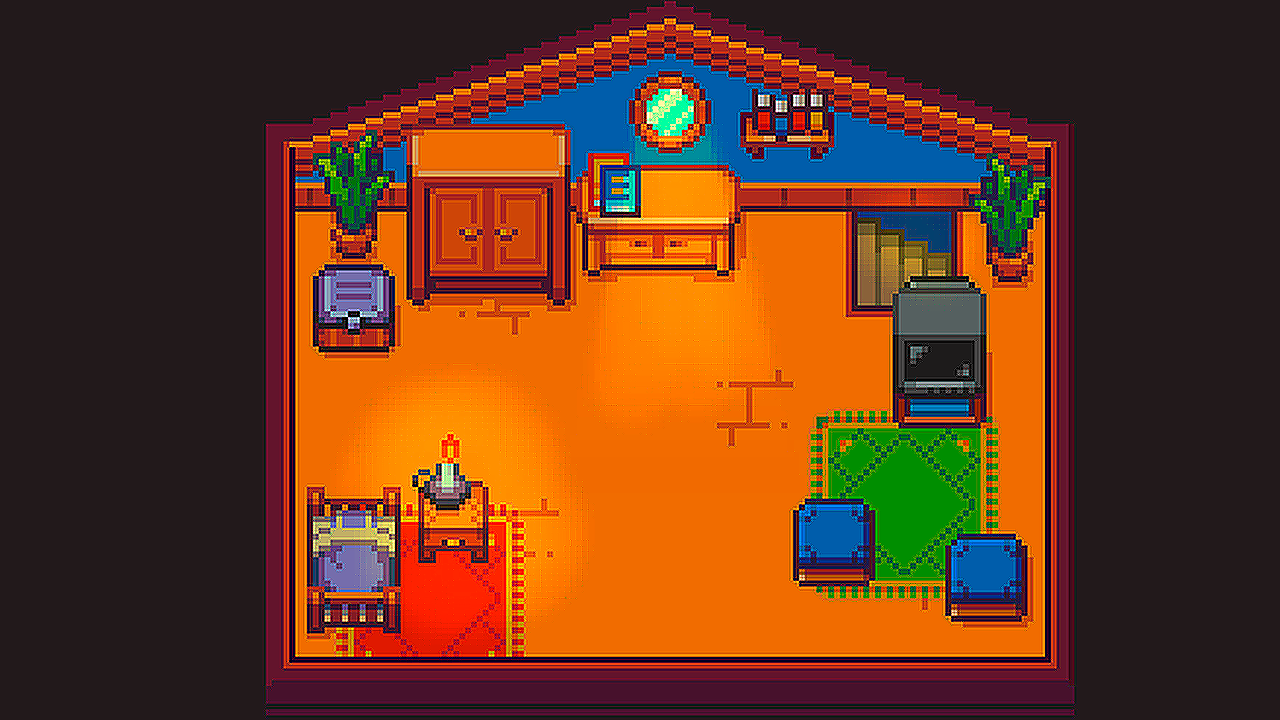
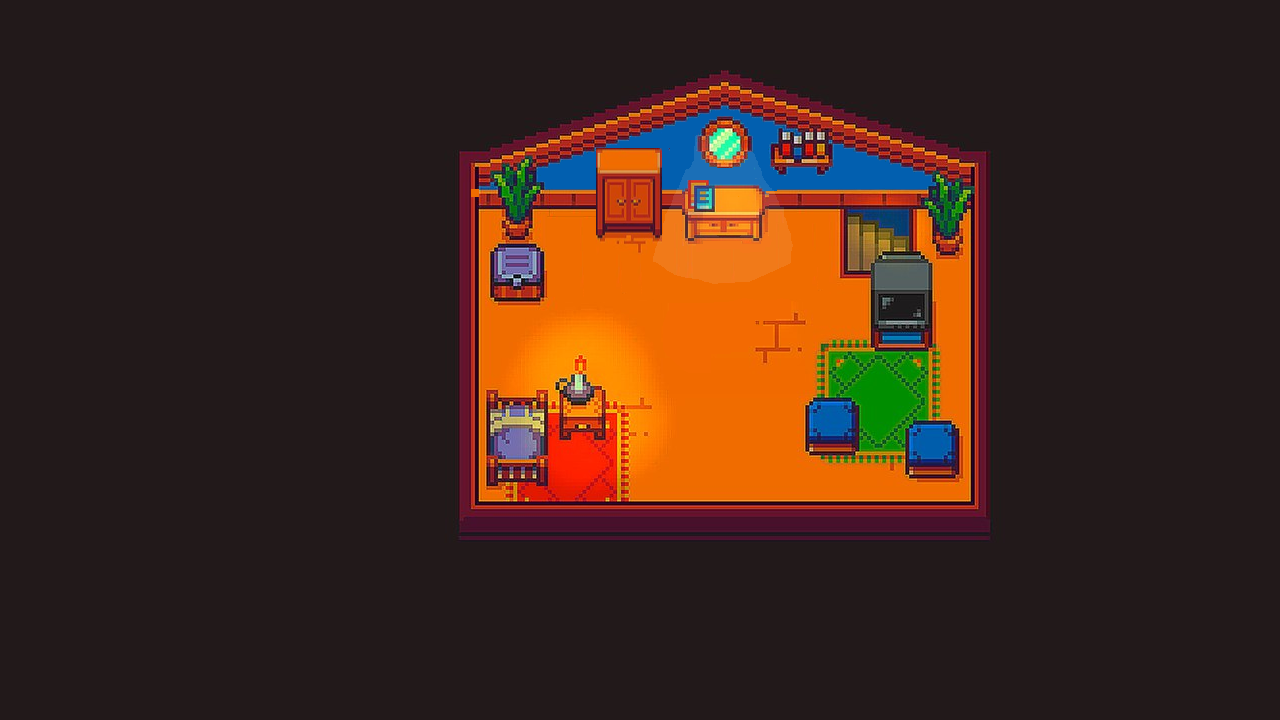
Colisiones Mapa escena 2 Corregido, Aviso Cama, Zoom Display

diff --git a/ProyectoJuegoUnison/Player.h b/ProyectoJuegoUnison/Player.h
@@ -28,6 +28,7 @@ public:
 	void action(ALLEGRO_KEYBOARD_STATE keystate, ALLEGRO_EVENT_QUEUE* queue);
 	void setEscena(int escena);
 	int getEscena();
+	
 
 private:
 	ALLEGRO_BITMAP* sprite;
@@ -35,19 +36,24 @@ private:
 	enum { DOWNW, RIGHTW, UPW, LEFTW };
 	float speedPlayer, direccion, SpritePosX, SpritePosY, corriendo;
 	bool active = false;
-	
+
 	int PlayRefresh, AudRepeat;
-	int x;
-	int y;
+	
 	int escena;
 
 	bool MapaV2;
 	bool MapaCasa;
-
-
+	bool AvisoCama;
+	int x;
+	int y;
 	bool f_pressed = false;
 	double last_f_press = 0.0;
 	const double f_cooldown_time = 2.0; // cooldown de 1 segundo
+
+	//VARIABLES PARA EL ZOOM
+	float cameraPosition[2] = { 0, 0 };
+	float scale = 1.0f;
+	float degrees = 0.0f;
 
 	//DIMESION DE LA MATRIZ MASCARA
 	const int dimxmask = 150;
@@ -229,51 +235,51 @@ private:
 			"x                                                                                                                            x", //16
 			"x                                                                                                                            x", //17
 			"xxxxxxxxxxxxxxxxxxxxxxxxxxxxxxxxxxxxxxxxxxxxxxxxxxxxxxxxxxxxxxxxxxxxxxxxxxxxxxxxxxxxxxxxxxxxxxxxxxxxxxxxxxxxxxxxxxxxxxxxxxxxxx", //18
-			"x                         xx           x                              xx            xxxxxxxxxx        xx                     x", //19
-			"x                         xx           x                              xx            xxxxxxxxxx        xx                     x", //20
-			"x                         xx   xxxxx   x                              xx            xxxxxxxxxx        xx                     x", //21
-			"x                         xx   xxxxx   x                              x             iiiiiiiiix        xx                     x", //22
-			"x                         xx    xxx    x                              x             iiiiiiiiix        xx                     x", //23
-			"x                         xx           xxxxxxxxxxxxxxxxxxxxxxxxxxxxxxxx             iiiiiiiiix   xxxxxxx                     x", //24
-			"x                         xx  xxxxxx   xxxxxxxxxxxxxxxxxxx            x             iiiiiiiiix   xxxxxxx                     x", //25
-			"x                         xx x     xx  xxxxxxxxxxxxxxxxx                            iiiiiixxxx    xxx xx                     x", //26
-			"x                         xx x     xx  xx            xxx                            iiiiixxxxxx       xx                     x", //27
-			"x                         xx x     xx                                               iiiixxxxxxxx      xx                     x", //28
-			"x                         xx x     xx                                                  xxxxxxxxxx     xx                     x", //29
-			"x                         xx x     xx                                                  x        x     xx                     x", //30
-			"x                         xx xxxxxxxx                                                  x        x     xx                     x", //31
-			"x                         xx  xxxxxx                                                   x        x     xx                     x", //32
-			"x                         xx                                                           x        x     xx                     x", //33
-			"x                         xx                                                           x        x     xx                     x", //34
-			"x                         xx                                                           x        x     xx                     x", //35
-			"x                         xx                                                           x        x     xx                     x", //36
-			"x                         xx                                                           x        x     xx                     x", //37
-			"x                         xx                                                           x        x     xx                     x", //38
-			"x                         xx                                                           x        x     xx                     x", //39
-			"x                         xx                                                            xxxxxxxx      xx                     x", //40
-			"x                         xx                                                                          xx                     x", //41
-			"x                         xx                                                                          xx                     x", //42
-			"x                         xx                                                                          xx                     x", //43
-			"x                         xx                                                                          xx                     x", //44
-			"x                         xx                                                                          xx                     x", //45
-			"x                         xx                                                                          xx                     x", //46
-			"x                         xx            xxxxxx                                                        xx                     x", //47
-			"x                         xxxx      xx xx    xx                                                       xx                     x", //48
-			"x                         xxxxxxxxxxxx xx    xx                                xxxxxx                 xx                     x", //49
-			"x                         xxxx      xx xx    xx                               xxxxxxxx                xx                     x", //50
-			"x                         xxxx      xx xx    xx                               x     xx                xx                     x", //51
-			"x                         xxxx      xx  xxxxxxx                               x     xx                xx                     x", //52
-			"x                         xxxx      xx  x    x                                x     xx        xxxxx   xx                     x", //53
-			"x                         xxxx      xx                                        x     xx       xxxxxxx  xx                     x", //54
-			"x                         xxxx      xx                                        xxxxxxxx       x     x  xx                     x", //55
-			"x                         xxxx      xx                                         xxxxxx        x     x  xx                     x", //56
-			"x                         xxxx      xx                                                       x     x  xx                     x", //57
-			"x                         xxxx      xx                                                       x     x  xx                     x", //58
-			"x                         xxxx      xx                                                       xxxxxxx  xx                     x", //59
-			"x                         xxxxxxxxxxxx                                                        xxxxx   xx                     x", //60
-			"x                         xxxx      xx                                                                xx                     x", //61
-			"x                         xx                                                                          xx                     x", //62
-			"x                         xx                                                                          xx                     x", //63
+			"x                         xx         x x    xx           xx   xx  xx      x       xxxxxxx      x      x                      x", //19
+			"x                         xx         x x    xx  xx       xx   xx  xx      x       xxxxxxx      x      x                      x", //20
+			"x                         xx   xxxxx x x    xx xxxx      xxxxxxx  xxxxxxxxx       iiiiiii      x      x                      x", //21
+			"x                         xx   xxxxx x x    xx                                    iiiiiii   xx x      x                      x", //22
+			"x                         xx    xxx  x x    xxxxxxxxx                             iiiiiii  xxxxx      x                      x", //23
+			"x                         xx         xxx    xx x   xx                             iiiixxxxx    x                             x", //24
+			"x                         xx  xxxxxx x xxxxxxx x   xx                             iiiix   x    x                             x", //25
+			"x                         xx x     xxx      xx x   xx                             iiixx   x    x                             x", //26
+			"x                         xx x     xxx xx   xxxxxxxxx                                xx   x    x                             x", //27
+			"x                         xx x     xxx      xx                                       xx   x    x                             x", //28
+			"x                         xx x     xxx      xx                                       xx   x    x                             x", //29
+			"x                         xx x     xxx      xx                                       xx   x    x                             x", //30
+			"x                         xx xxxxxxxxx      xx                                       xx   x    x      x                      x", //31
+			"x                         xx  xxxxxx x      xx                                       xxxxxx    x      x                      x", //32
+			"x                         xx         x      xx                                                 x      x                      x", //33
+			"x                         xx         x      xx                                                 x      x                      x", //34
+			"x                         xx         x      xx                                                 x      x                      x", //35
+			"x                         xx         x      xx                                                 x      x                      x", //36
+			"x                         xx         x      xx        xxxxx                                    x      x                      x", //37
+			"x                         xx         x      xxxx    xxx  xx                                    x      x                      x", //38
+			"x                         xx         x      xxx bbbbxxx  xx                   xxxxxx           x      x                      x", //39
+			"x                         xx         x      xxx bbbbbxx  xx                   xx  xx           x      x                      x", //40
+			"x                         xx         x      xxx bbbbbxxxxxx                   xx  xx    xxxxxxxx      x                      x", //41
+			"x                         xx         x      xxx bbbbb                         xx  xx    xx     x      x                      x", //42
+			"x                         xx         x      xxx bbbbb                         xxxxxx    xx     x      x                      x", //43
+			"x                         xx         x      xxx bbbbb                                   xx     x      x                      x", //44
+			"x                         xx         x      xxx bbbbb                                   xxxxxxxx      x                      x", //45
+			"x                         xx         x      xxxbbbbbb                                          x      x                      x", //46
+			"x                         xx         x  xxxxxx                                                 x      x                      x", //47
+			"x                         xxxx      xx xx   xx                                                 x      x                      x", //48
+			"x                         xxxxxxxxxxxxxxxxxxxxxxxxxxxxxxxxxxxxxxxxxxxxxxxxxxxxxxxxxxxxxxxxxxxxxxxxxxxxx                      x", //49
+			"x                         xxxx      xx xx    xxx                               xxxxxxxx      x        x                      x", //50
+			"x                         xxxx      xx xx    xx                               x     xx       x        x                      x", //51
+			"x                         xxxx      xx  xxxxxxx                               x     xx       x        x                      x", //52
+			"x                         xxxx      xxxxxxxxxxxxxxxxxxxxxxxxxxxxxxxxxxxxxxxxxxxxxxxxxx       xxxxxx   x                      x", //53
+			"x                         xxxx      xx                                        x     xx x     xxxxxxx  x                      x", //54
+			"x                         xxxx      xx                                        xxxxxxxx x     x     x  xx                     x", //55
+			"x                         xxxx      xx                                         xxxxxx  x     x     x  xx                     x", //56
+			"x                         xxxx      xx                                                 x     x     x  xx                     x", //57
+			"x                         xxxx      xx                                                 x     x     x  xx                     x", //58
+			"x                         xxxx      xx                                                xx     xxxxxxx  xx                     x", //59
+			"x                         xxxxxxxxxxxx                                                xx      xxxxx   xx                     x", //60
+			"x                         xxxx      xx                                                xx              xx                     x", //61
+			"x                         xx         x                                                xx              xx                     x", //62
+			"x                         xx         x                                                xx              xx                     x", //63
 			"x                         xxxxxxxxxxxxxxxxxxxxxxxxxxxxxxxxxxxxxxxxxxxxxxxxxxxxxxxxxxxxxxxxxxxxxxxxxxxxxxxxxxxxxxxx           x", //64
 			"x                                                                                                                            x", //65
 			"x                                                                                                                            x", //66
@@ -307,6 +313,6 @@ private:
 	Mochila* mochila;
 	void Cosechar(int i);
 };
-extern Cultivo *matrizCultivos[8];
+extern Cultivo* matrizCultivos[8];
 #endif // !PLAYER_H
 

diff --git a/ProyectoJuegoUnison/Player.cpp b/ProyectoJuegoUnison/Player.cpp
@@ -1,4 +1,5 @@
 #include "Player.h"
+#include "InitiMap.h"
 //esta matriz nos permite saber cual hoyo de siembra está disponible
 Mochila* mochila;
 Player::Player(std::string ruta)
@@ -32,6 +33,18 @@ Player::~Player()
 {
 	al_destroy_bitmap(this->sprite);
 }
+
+void CameraUpdate(float* cameraPosition, float x, float y, int Wiidth, int Heeight)
+{
+	cameraPosition[0] - (1280 / 2) + (x + Wiidth / 2);
+	cameraPosition[1] - (720 / 2) + (y + Heeight / 2);
+
+	if (cameraPosition[0] < 0)
+		cameraPosition[0] = 0;
+	if (cameraPosition[1] < 0)
+		cameraPosition[1] = 0;
+}
+
 void Player::action(ALLEGRO_KEYBOARD_STATE keystate, ALLEGRO_EVENT_QUEUE* queue)
 {
 	//mando a mover al personaje y a animarlo
@@ -102,6 +115,8 @@ void Player::colisiones()
 	al_draw_text(font, al_map_rgb(255, 255, 255), 10, 150, ALLEGRO_ALIGN_LEFT, ("xMder: " + std::to_string(xMder)).c_str());
 	al_draw_text(font, al_map_rgb(255, 255, 255), 150, 150, ALLEGRO_ALIGN_LEFT, ("yMder: " + std::to_string(yMder)).c_str());
 	al_draw_text(font, al_map_rgb(255, 255, 255), 300, 150, ALLEGRO_ALIGN_LEFT, ("Hay: " + std::to_string(maskmap[yMder][xMder])).c_str());
+
+	if(AvisoCama) al_draw_text(font, al_map_rgb(255, 255, 255), 500, 150, ALLEGRO_ALIGN_LEFT, ("Cama "));
 }
 void Player::move(ALLEGRO_KEYBOARD_STATE keystate, ALLEGRO_EVENT_QUEUE* queue)
 {
@@ -235,6 +250,31 @@ void Player::move(ALLEGRO_KEYBOARD_STATE keystate, ALLEGRO_EVENT_QUEUE* queue)
 
 	// colision con el mapa de mascara
 
+	
+	//ZOOM CAMARA
+
+	ALLEGRO_TRANSFORM camera;
+	
+		//if (event.type == ALLEGRO_EVENT_DISPLAY_CLOSE) running = false;
+		if ((al_key_down(&keystate, ALLEGRO_KEY_EQUALS)) || (al_key_down(&keystate, ALLEGRO_KEY_PAD_PLUS))) {
+			scale += 0.01f;
+			//std::cout << scale;
+		}
+		if (al_key_down(&keystate, ALLEGRO_KEY_MINUS)) {
+			scale -= 0.01f;
+		}
+
+		CameraUpdate(cameraPosition, this->x, this->y, 32, 32);
+
+		al_identity_transform(&camera);
+		al_translate_transform(&camera, -(this->x + 16), -(this->y + 16));
+		al_scale_transform(&camera, scale, scale);
+		al_translate_transform(&camera, -cameraPosition[0] + (this->x + 16), -cameraPosition[1] + (this->y + 16));
+		al_use_transform(&camera);
+
+		
+	
+
 	active = true;
 	//CHECAR SI ESTA CORRIENDO
 	if (al_key_down(&keystate, ALLEGRO_KEY_LSHIFT)) {
@@ -278,6 +318,20 @@ void Player::move(ALLEGRO_KEYBOARD_STATE keystate, ALLEGRO_EVENT_QUEUE* queue)
 		this->x = 2;
 		setEscena(1);
 	}
+	else if (al_key_down(&keystate, ALLEGRO_KEY_D) && maskmap[yMup][xMup] == 'o')
+	{
+		this->y -= speedPlayer;
+		direccion = UPW + corriendo;
+		this->x = 2;
+		setEscena(1);
+	}
+	else if (al_key_down(&keystate, ALLEGRO_KEY_A) && maskmap[yMup][xMup] == 'b')
+	{
+		this->x -= speedPlayer;
+		direccion = LEFTW + corriendo;
+		AvisoCama = true;
+		std::cout << "Holaaa";
+	}
 	else if (al_key_down(&keystate, ALLEGRO_KEY_W) && maskmap[yMup][xMup] != 'x')
 	{
 		this->y -= speedPlayer;
@@ -298,6 +352,7 @@ void Player::move(ALLEGRO_KEYBOARD_STATE keystate, ALLEGRO_EVENT_QUEUE* queue)
 		this->x -= speedPlayer;
 		direccion = LEFTW + corriendo;
 	}
+	
 	else active = false;
 	if (al_key_down(&keystate, ALLEGRO_KEY_K) && maskmap[yMup][xMup] == 'c' && getEscena() == 1)
 	{

diff --git a/ProyectoJuegoUnison/InitMap.cpp b/ProyectoJuegoUnison/InitMap.cpp
@@ -1,6 +1,9 @@
 #include "InitiMap.h"
 
+
 using std::cout;
+
+
 GameRun::GameRun()
 {
 	al_init();
@@ -41,14 +44,20 @@ GameRun::~GameRun()
 
 void GameRun::initGame()
 {
+	
+
 	Player* player = new Player("assets/Player/Sprites Players/characters/Walk_run Player2.png");
 	DrawObjects* drawPlayer = new DrawObjects();
 	//cultivos.push_back(new Cultivo("assets/Basic Plants.png", 5, 10, 0));
+
+
+
 	while (running)
 	{
 		al_wait_for_event(queue, &event);
 		ALLEGRO_KEYBOARD_STATE keystate;
 		al_get_keyboard_state(&keystate);
+		
 
 		if (event.type == ALLEGRO_EVENT_DISPLAY_CLOSE) running = false;
 		else if (event.type == ALLEGRO_EVENT_MOUSE_AXES) 

diff --git a/ProyectoJuegoUnison/InitiMap.h b/ProyectoJuegoUnison/InitiMap.h
@@ -17,12 +17,15 @@
 #include "TipoCultivos.h"
 #include "DrawObjects.h"
 
+
+
 class GameRun
 {
 public:
 	GameRun();
 	~GameRun();
 	ALLEGRO_TIMER* timer;
+	bool running;
 private:
 	//VARIABLES ALLEGRO
 	ALLEGRO_DISPLAY* displayGame;
@@ -37,7 +40,7 @@ private:
 	const int height = 720;
 	const float FPS = 90.0;
 	//VARIABLES
-	bool running;
+	
 	int mouseX, mouseY;
 	int i;
 
